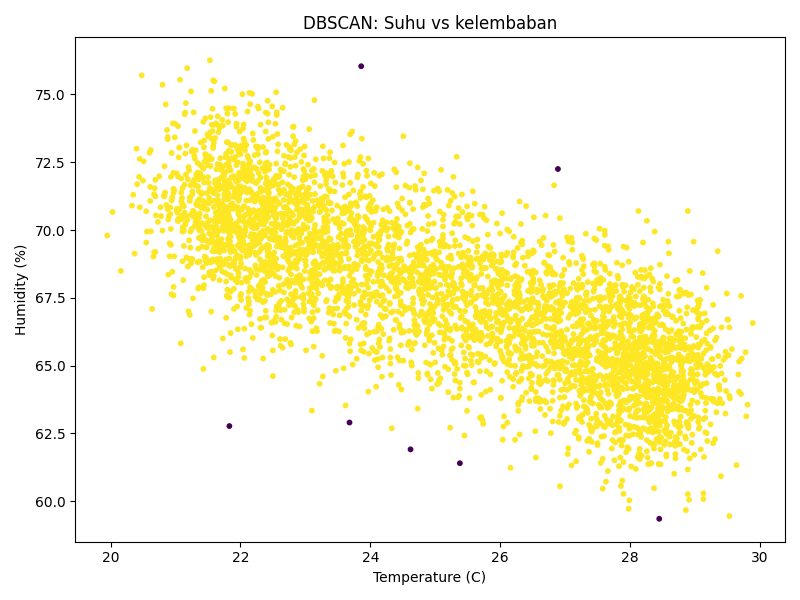
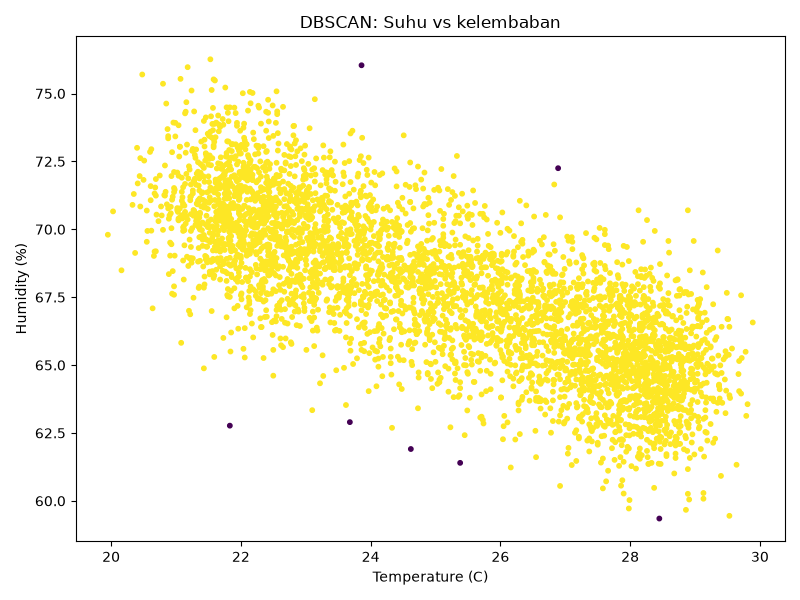
refactor: clarify clustering chart labels

diff --git a/scripts/cluster_room_kmeans.py b/scripts/cluster_room_kmeans.py
@@ -41,9 +41,9 @@ plt.scatter(
     c=df["cluster_kmeans"],
     s=10
 )
-plt.title("K-Means Clustering: Suhu vs kelembaban")
-plt.xlabel("Temperature (C)")
-plt.ylabel("Humidity (%)")
+plt.title("Hasil Clustering K-Means (K=3)")
+plt.xlabel("Suhu (°C)")
+plt.ylabel("Kelembapan (%)")
 plt.tight_layout()
 plt.savefig("outputs/figures/room_kmeans_scatter.png")
 plt.show()

diff --git a/scripts/cluster_room_dbscan.py b/scripts/cluster_room_dbscan.py
@@ -27,9 +27,9 @@ plt.scatter(
     c=df["cluster_dbscan"],
     s=10
 )
-plt.title("DBSCAN: Suhu vs kelembaban")
-plt.xlabel("Temperature (C)")
-plt.ylabel("Humidity (%)")
+plt.title("Hasil Clustering DBSCAN")
+plt.xlabel("Suhu (°C)")
+plt.ylabel("Kelembapan (%)")
 plt.tight_layout()
 plt.savefig("outputs/figures/room_dbscan_scatter.png")
 plt.show()
